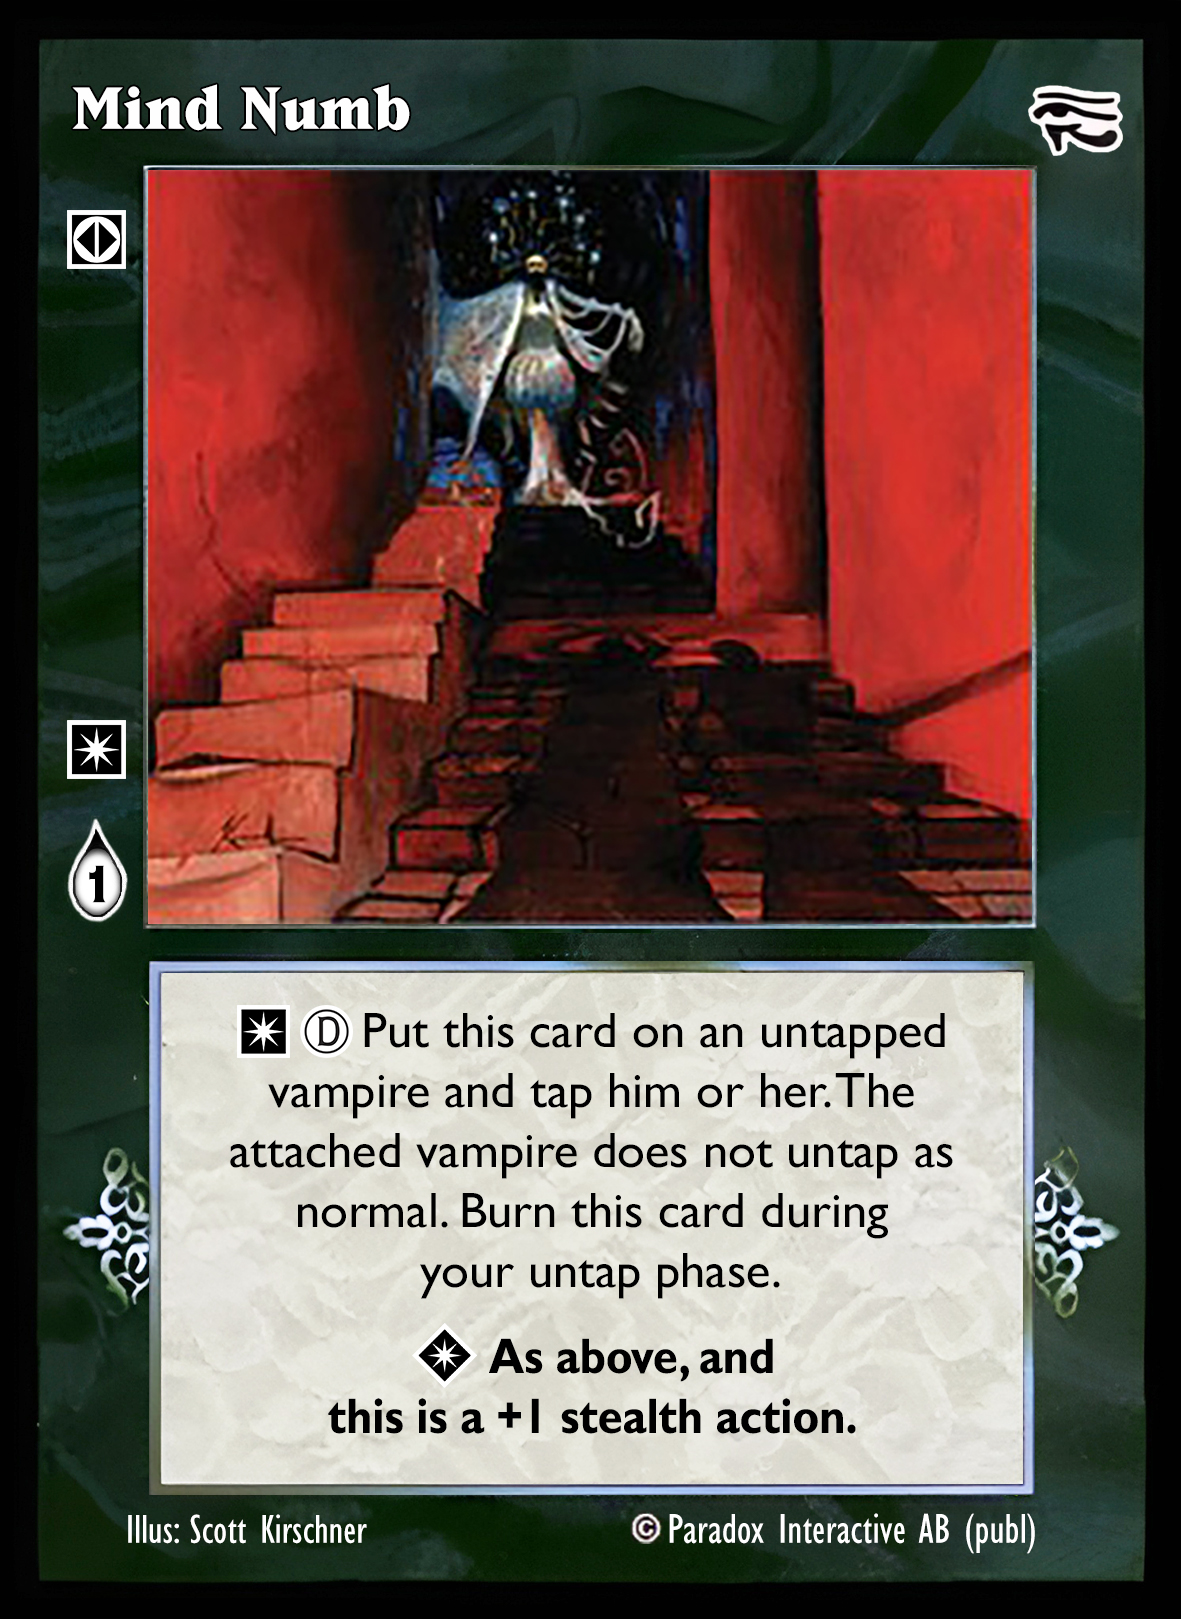
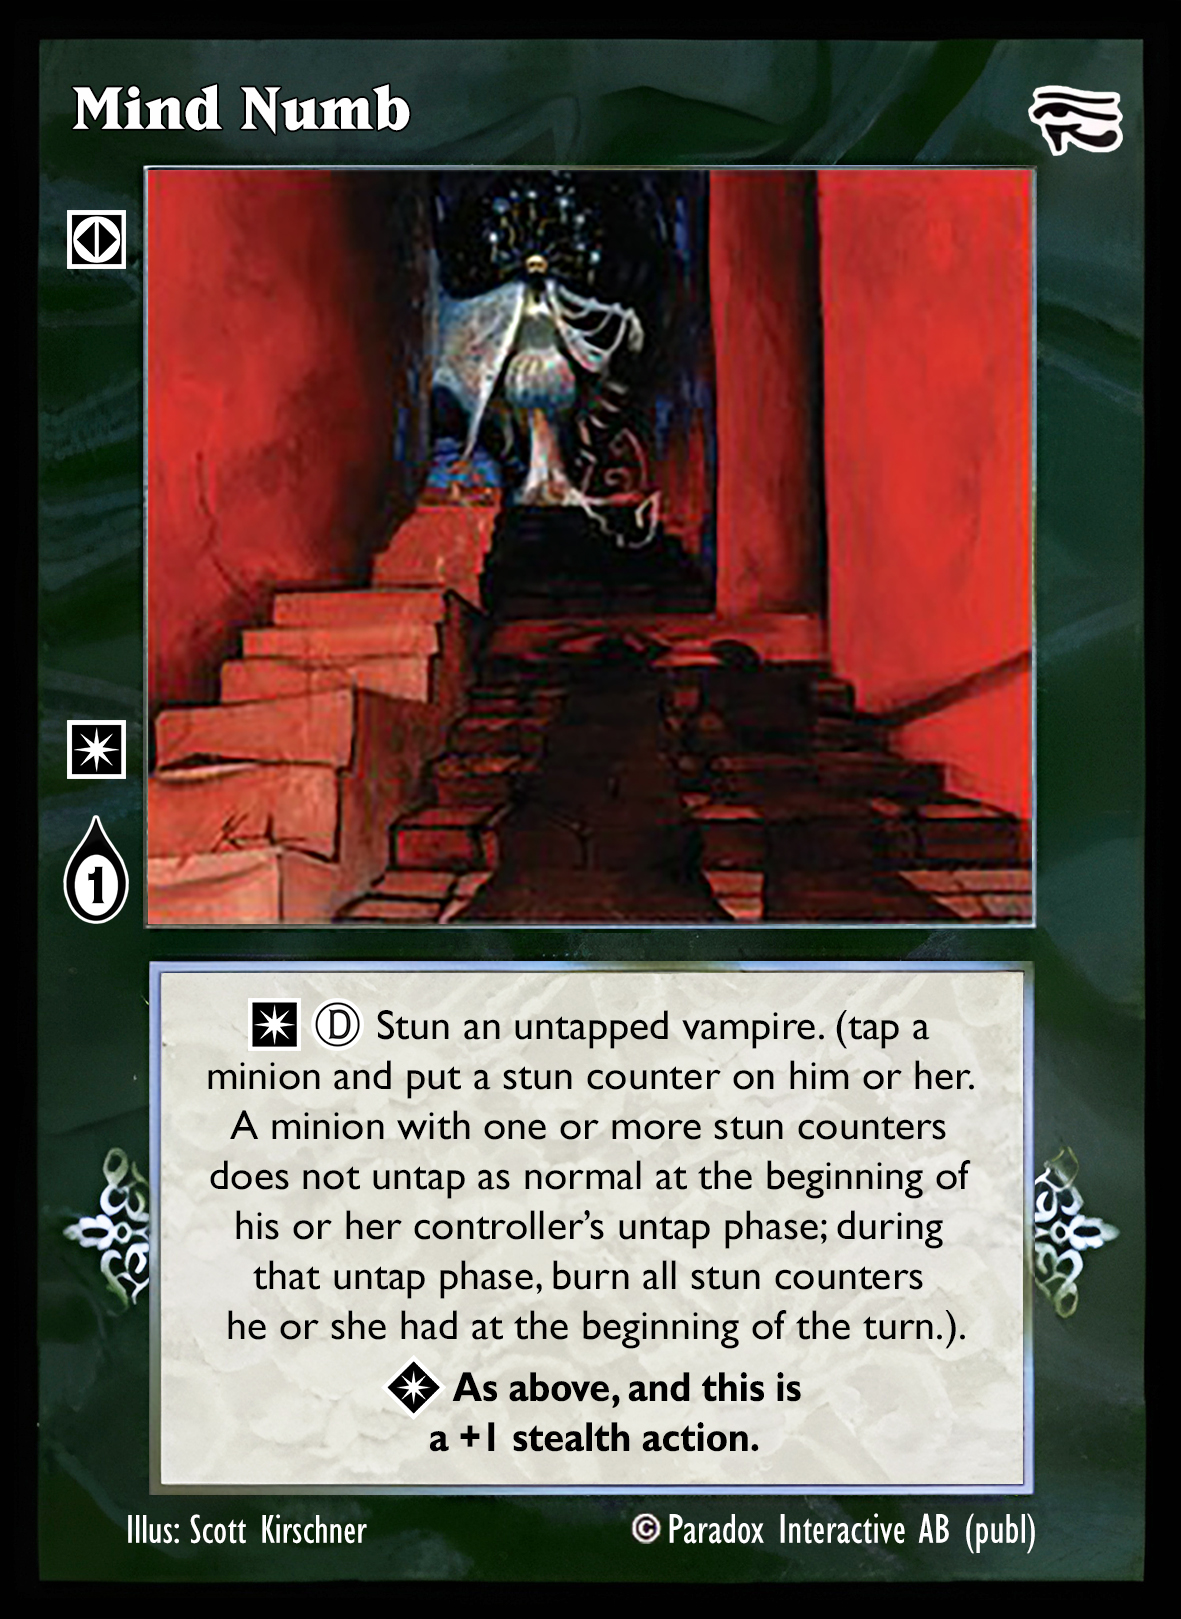
fix legacy images

Changed region(s): [[0.1829, 0.6177, 0.823, 0.8956], [0.0305, 0.4941, 0.1219, 0.5868]]

diff --git a/TODO.md b/TODO.md
@@ -1,7 +1,5 @@
 # FIX
 - PDA decks favorted and created date (older decks)
-- Fix legacy cards (telegram)
-- Change limited preset to Custom from navbar
 
 # FIX ON HOLD
 - Deck-in-Url trimmed at first card - can't reproduce in dev environment
